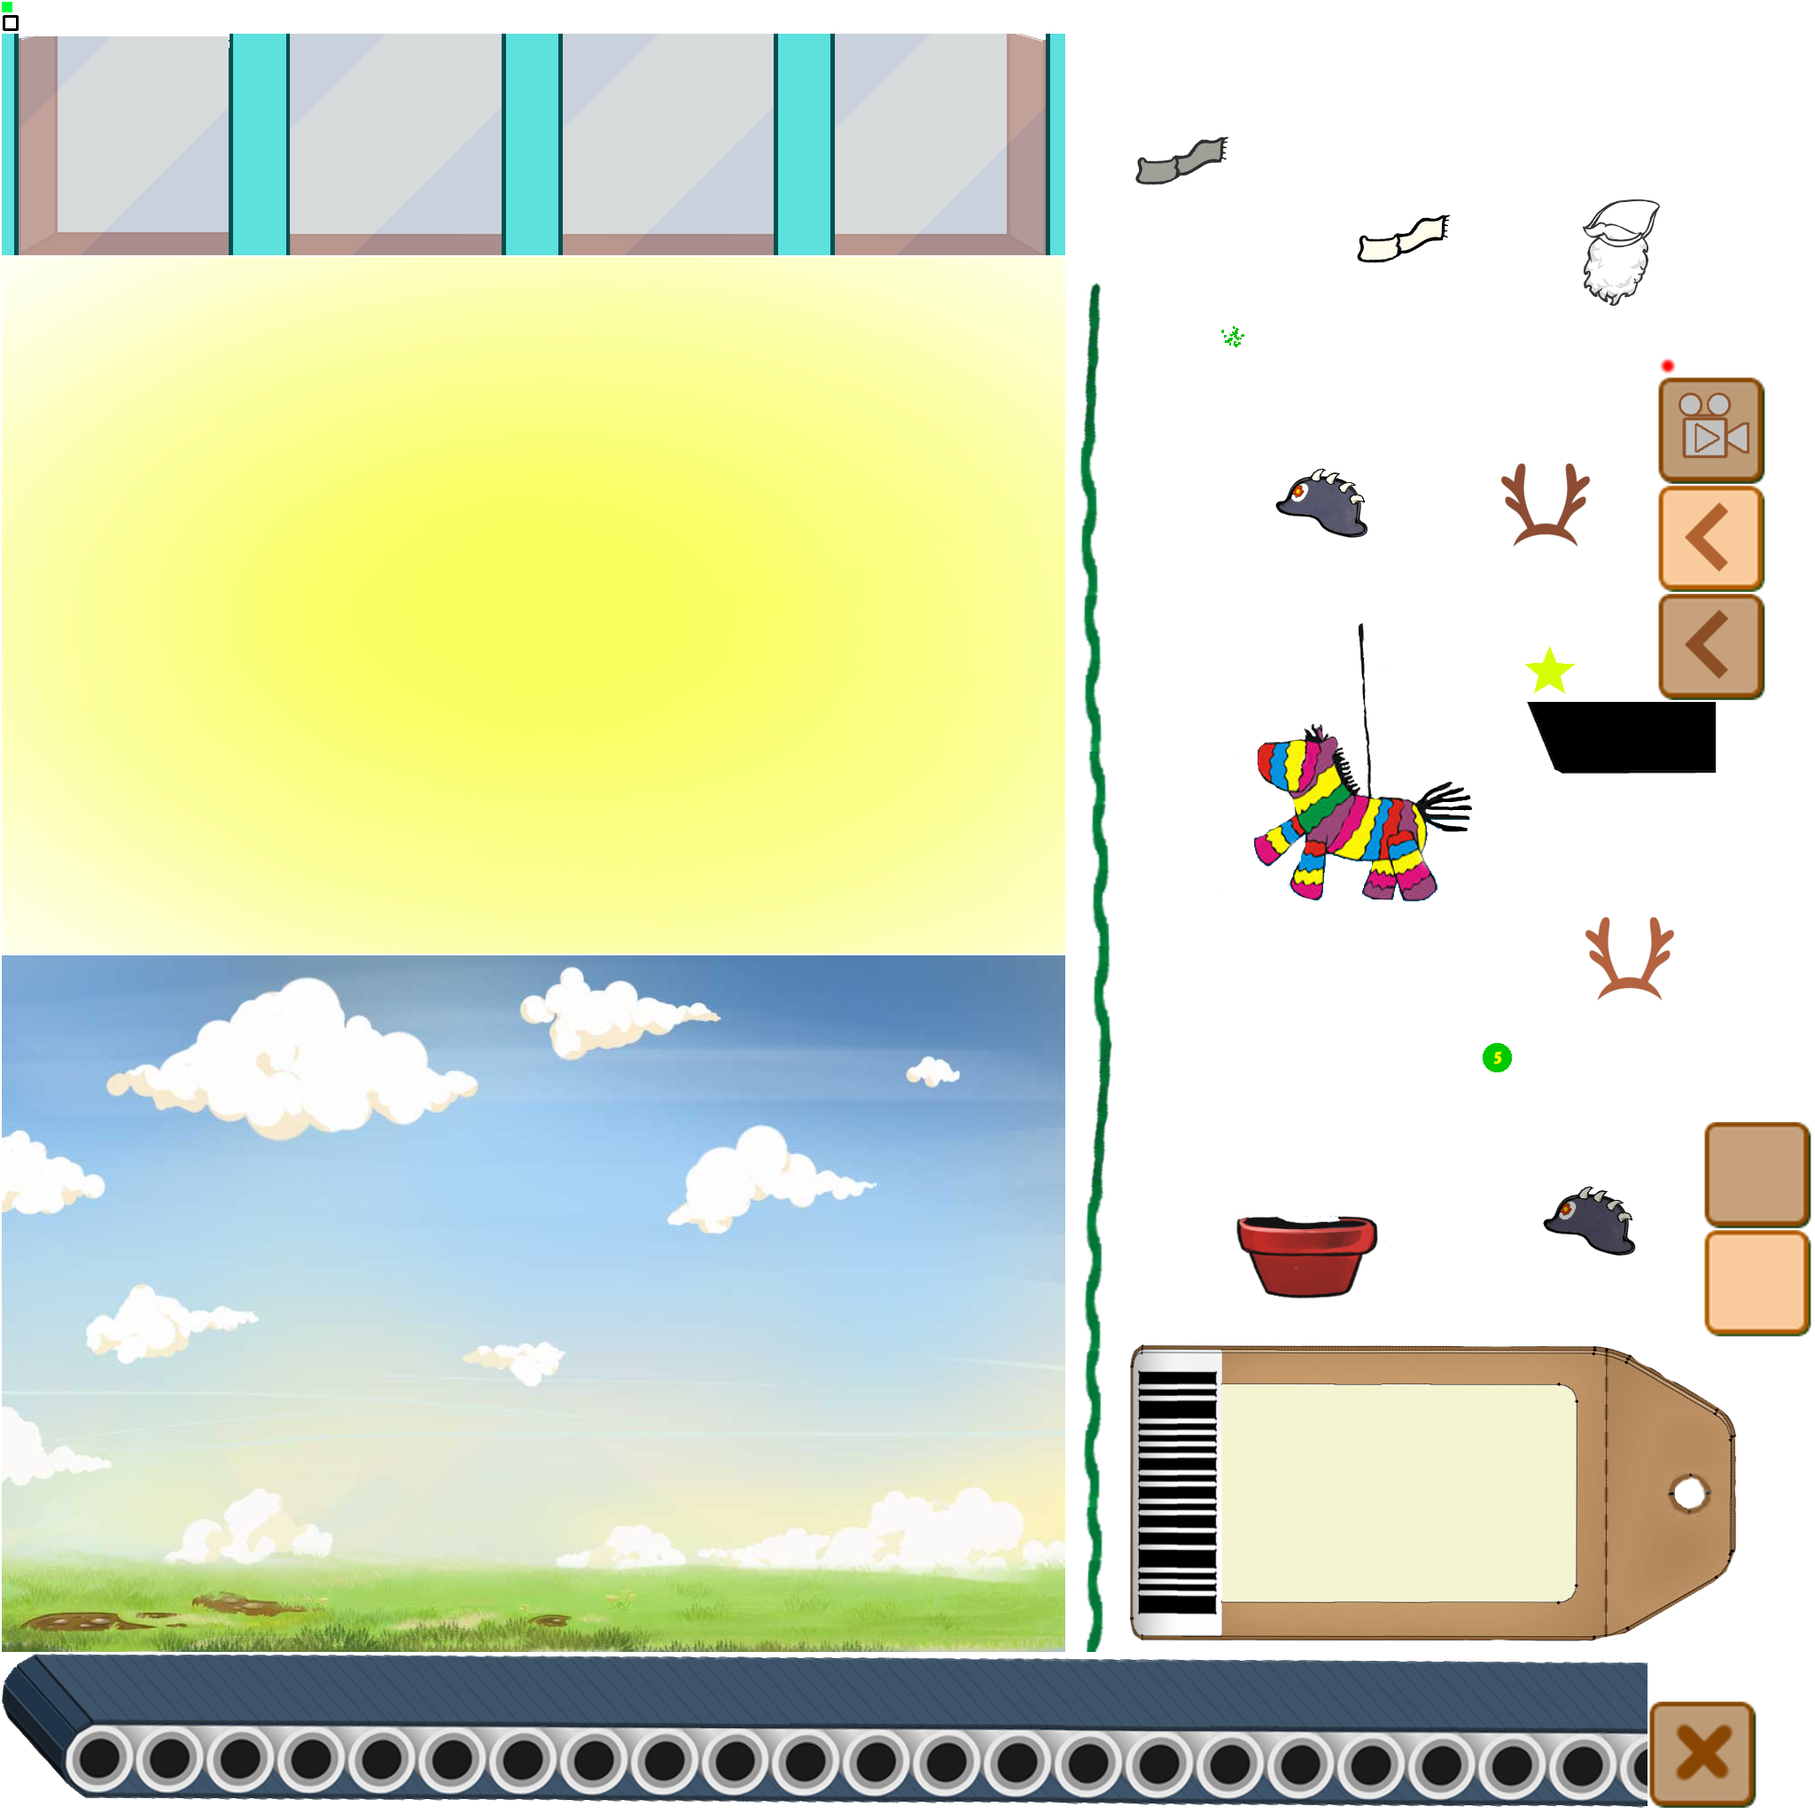
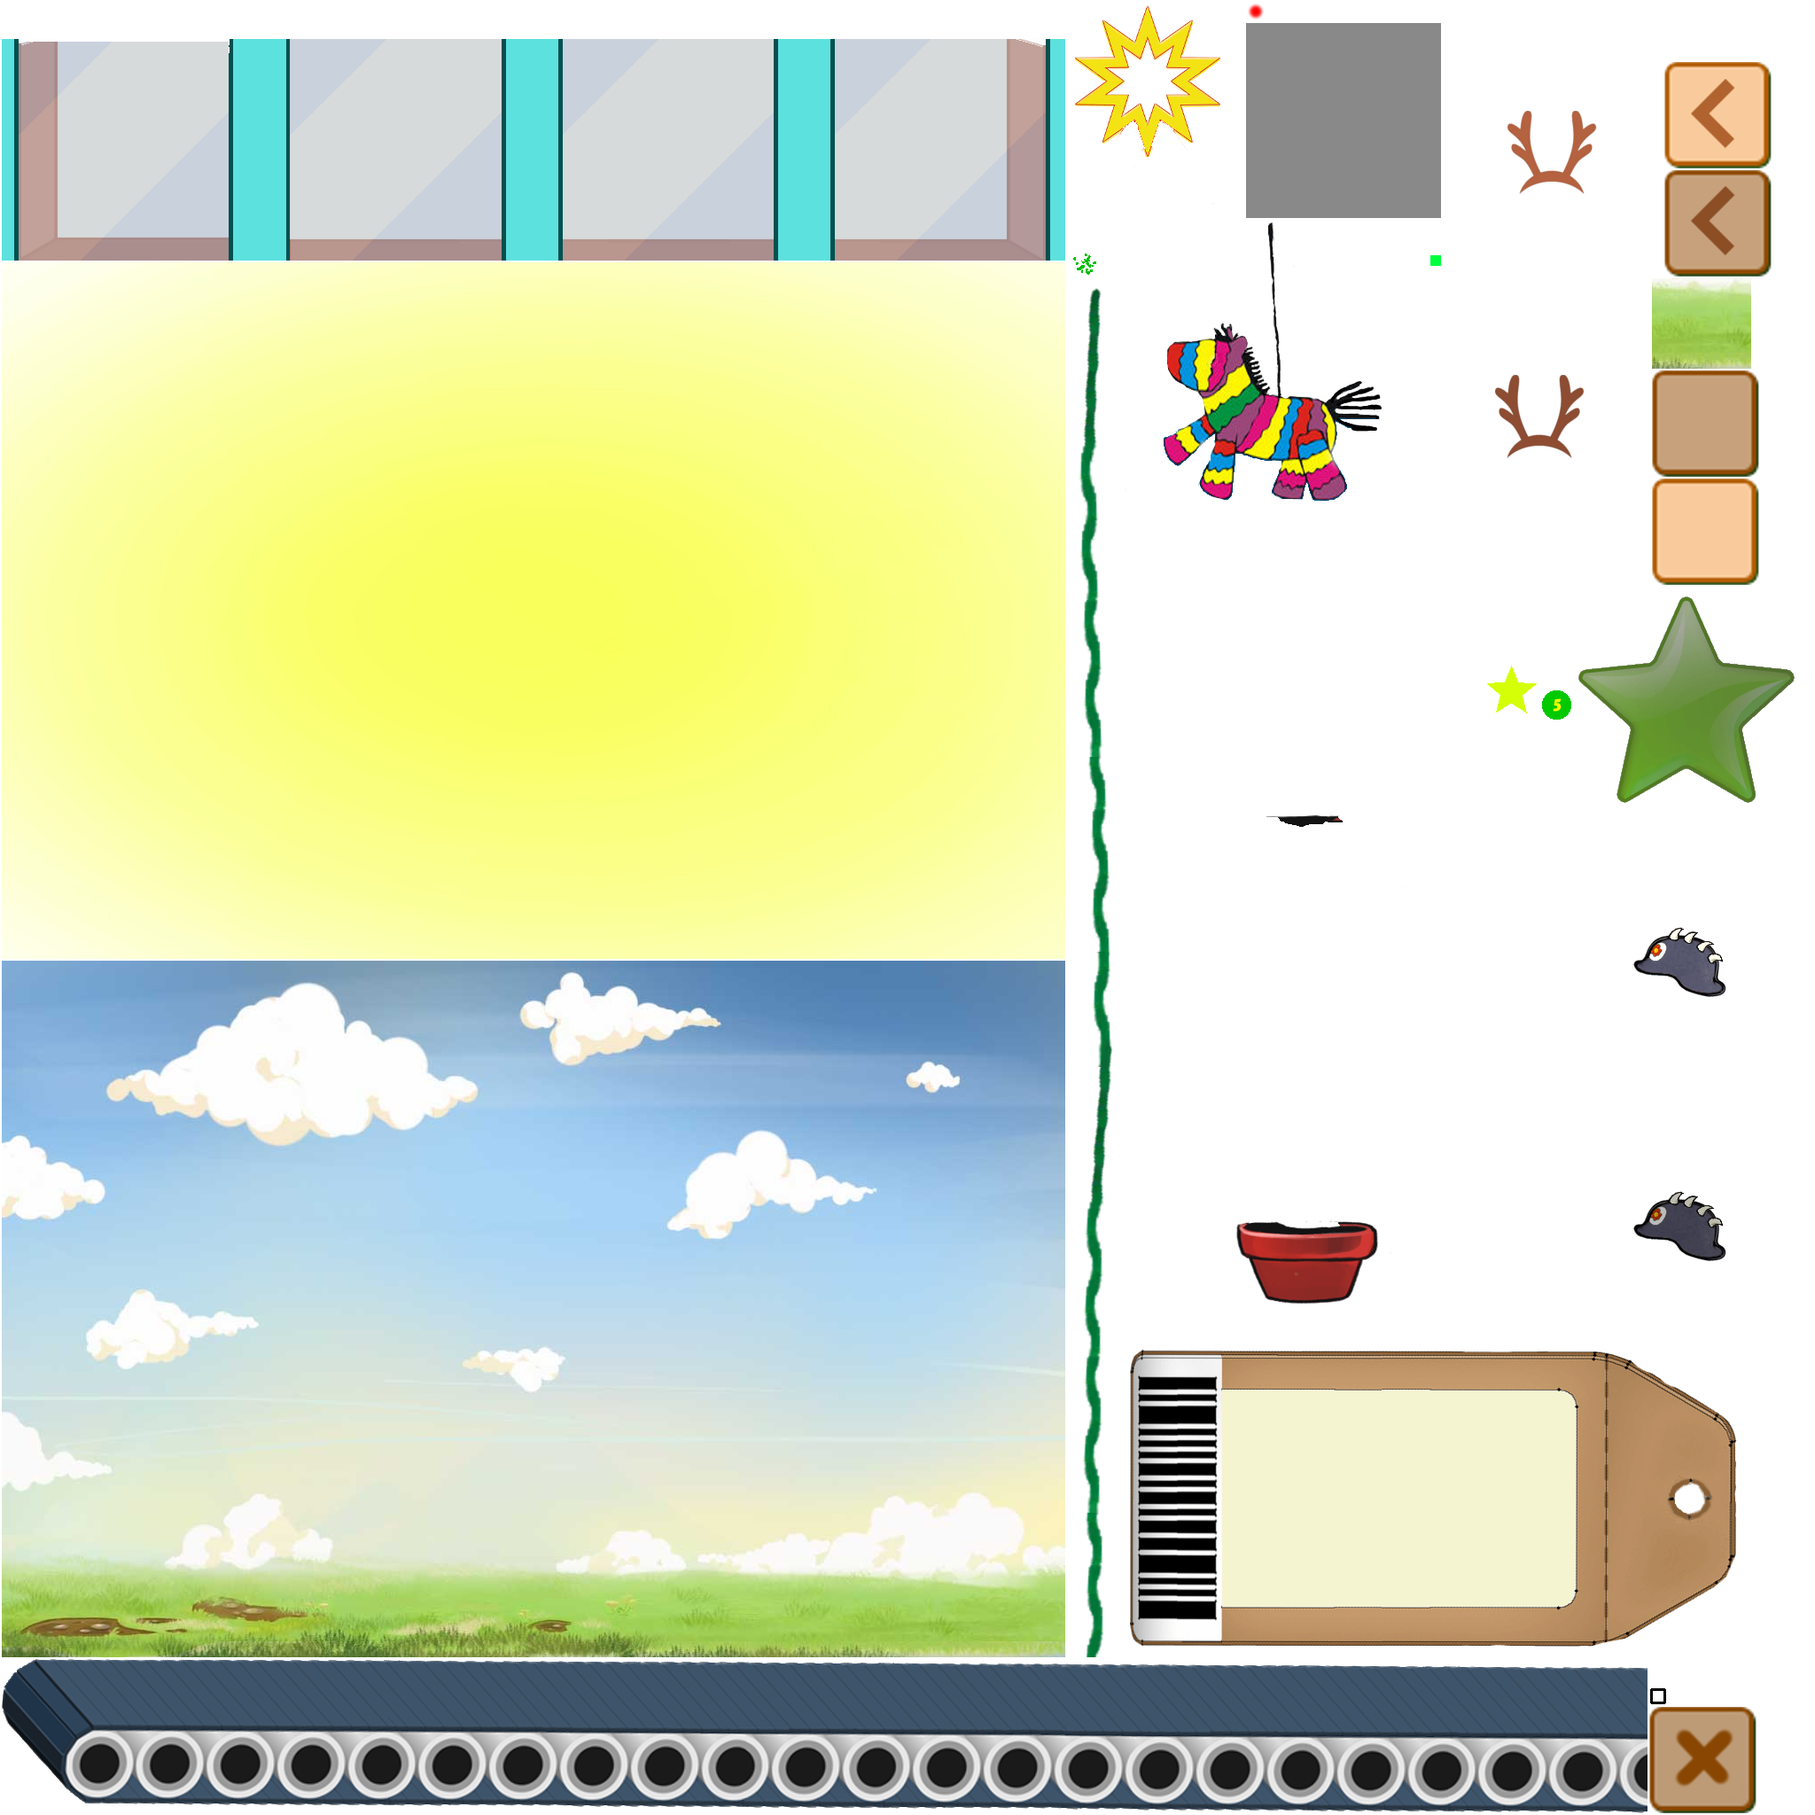
new showcase

diff --git a/core/src/com/mygdx/etf/stages/ui/Showcase.java b/core/src/com/mygdx/etf/stages/ui/Showcase.java
@@ -14,6 +14,8 @@ import com.uwsoft.editor.renderer.systems.action.Actions;
 import com.uwsoft.editor.renderer.utils.ComponentRetriever;
 import com.uwsoft.editor.renderer.utils.ItemWrapper;
 
+import javax.swing.plaf.basic.BasicSliderUI;
+
 import static com.mygdx.etf.stages.GameStage.sceneLoader;
 import static com.mygdx.etf.stages.ResultScreenScript.show;
 import static com.mygdx.etf.stages.ResultScreenScript.showCaseVanity;
@@ -56,30 +58,51 @@ public class Showcase {
 
         NodeComponent nc = showcaseE.getComponent(NodeComponent.class);
         TintComponent tcp = showcaseE.getComponent(TintComponent.class);
-
+        showcaseE.getComponent(TransformComponent.class).scaleX = 0.8f;
+        showcaseE.getComponent(TransformComponent.class).scaleY = 0.8f;
         boolean appear = (tcp.color.a < 1 && show) || (tcp.color.a > 0 && !show);
 
         int fadeCoefficient = show ? 1 : -1;
 
         if (appear) {
-            tcp.color.a += fadeCoefficient * 0.1f;
-            fadeChildren(nc, fadeCoefficient);
-            if (itemIcon != null && fadeCoefficient <0 )
-            fadeChildren(itemIcon.getComponent(NodeComponent.class), fadeCoefficient);
+            ActionComponent ac = new ActionComponent();
+            Actions.checkInit();
+//            if (fadeCoefficient > 0) {
+                ac.dataArray.add(Actions.moveTo(150, 100, 1f, Interpolation.exp10));
+//            } else {
+//                ac.dataArray.add(Actions.moveTo(150, 1300, 1f, Interpolation.exp10));
+//            }
+            showcaseE.add(ac);
+//            tcp.color.a += fadeCoefficient * 0.1f;
+//            fadeChildren(nc, fadeCoefficient);
+//            if (itemIcon != null && fadeCoefficient <0 )
+//            fadeChildren(itemIcon.getComponent(NodeComponent.class), fadeCoefficient);
         }
-        hideWindow(tcp);
+//        hideWindow(tcp);
+//        hideWindow();
 
     }
 
-    private void hideWindow(TintComponent ticParent) {
-        if (!show && ticParent.color.a <= 0 && showcaseE != null) {
+    private void hideWindow(/*TintComponent ticParent*/) {
+        if (/*!show && ticParent.color.a <= 0 && */showcaseE != null) {
             if (itemIcon != null) {
-                tcItem.x = FAR_FAR_AWAY_X;
+//                tcItem.x = FAR_FAR_AWAY_X;
                 sceneLoader.getEngine().removeEntity(itemIcon);
                 itemIcon = null;
-                tcItem = null;
+//                tcItem = null;
             }
-            tcShowCase.x = FAR_FAR_AWAY_X;
+//            tcShowCase.x = FAR_FAR_AWAY_X;
+            showcaseE.remove(ActionComponent.class);
+            ActionComponent ac = new ActionComponent();
+            Actions.checkInit();
+            ac.dataArray.add(Actions.sequence(Actions.moveTo(150, 1300, 1f, Interpolation.exp10),
+                    Actions.run(new Runnable() {
+                        @Override
+                        public void run() {
+                            resultScreen.initResultScreen();
+                        }
+                    })));
+            showcaseE.add(ac);
         }
     }
 
@@ -105,12 +128,12 @@ public class Showcase {
 
         SpriterComponent sc = ComponentRetriever.get(aniE, SpriterComponent.class);
         sc.animationName = INTRO;
-        sc.player.speed = GlobalConstants.FPS/4;
+        sc.player.speed = GlobalConstants.FPS / 4;
 
         initShowCaseItem();
 
-        tcShowCase.x = -25;
-        tcShowCase.y = -35;
+//        tcShowCase.x = -25;
+//        tcShowCase.y = -35;
     }
 
     private void initShowCaseItem() {
@@ -118,21 +141,23 @@ public class Showcase {
         itemIcon = sceneLoader.entityFactory.createEntity(sceneLoader.getRoot(), tempItemC);
         sceneLoader.entityFactory.initAllChildren(sceneLoader.getEngine(), itemIcon, tempItemC.composite);
         sceneLoader.getEngine().addEntity(itemIcon);
+        showcaseE.getComponent(NodeComponent.class).addChild(itemIcon);
+
         itemIcon.getComponent(ZIndexComponent.class).setZIndex(100);
-
-        tcItem = itemIcon.getComponent(TransformComponent.class);
-        tcItem.x = 445;
-        tcItem.y = 350;
-        tcItem.scaleX = 0.05f;
-        tcItem.scaleY = 0.05f;
-        itemIcon.getComponent(TintComponent.class).color.a = 0.0f;
-
-        ActionComponent ac = new ActionComponent();
-        Actions.checkInit();
-        ac.dataArray.add(Actions.parallel(
-                Actions.scaleTo(1.5f, 1.5f, 5, Interpolation.exp5Out),
-                Actions.fadeIn(5, Interpolation.exp10Out)));
-        itemIcon.add(ac);
+//
+//        tcItem = itemIcon.getComponent(TransformComponent.class);
+//        tcItem.x = 145;
+//        tcItem.y = 150;
+//        tcItem.scaleX = 0.05f;
+//        tcItem.scaleY = 0.05f;
+//        itemIcon.getComponent(TintComponent.class).color.a = 0.0f;
+//
+//        ActionComponent ac = new ActionComponent();
+//        Actions.checkInit();
+//        ac.dataArray.add(Actions.parallel(
+//                Actions.scaleTo(1.5f, 1.5f, 5, Interpolation.exp5Out),
+//                Actions.fadeIn(5, Interpolation.exp10Out)));
+//        itemIcon.add(ac);
     }
 
     private void initShowCaseBackButton() {
@@ -154,7 +179,8 @@ public class Showcase {
             @Override
             public void clicked() {
                 ResultScreenScript.isWasShowcase = true;
-                resultScreen.initResultScreen();
+
+                hideWindow();
                 showCaseVanity = null;
             }
         });
@@ -181,7 +207,8 @@ public class Showcase {
                 showCaseVanity.buyAndUse();
                 GameStage.changedFlower2 = true;
                 ResultScreenScript.isWasShowcase = true;
-                resultScreen.initResultScreen();
+//                resultScreen.initResultScreen();
+                hideWindow();
                 if (GameStage.shopScript != null) {
                     GameStage.shopScript.preview.changeBagIcon(showCaseVanity);
                 }

diff --git a/core/src/com/mygdx/etf/stages/ResultScreenScript.java b/core/src/com/mygdx/etf/stages/ResultScreenScript.java
@@ -98,18 +98,24 @@ public class ResultScreenScript implements IScript {
         LabelComponent bestLabel = txtBestE.getComponent(LabelComponent.class);
         bestLabel.text.replace(0, bestLabel.text.capacity(), YOUR_BEST + String.valueOf(gameScript.fpc.bestScore));
 
-        if (showCaseVanity == null && !isWasShowcase) {
-            getNeedForNextItem();
-            isWasShowcase = false;
-        }
-        need = showCaseVanity.cost - gameScript.fpc.totalScore;
-        setProgressBar();
+        if (!isWasShowcase) {
+            if (showCaseVanity == null && !isWasShowcase) {
+                getNeedForNextItem();
+                isWasShowcase = false;
+            }
+            need = showCaseVanity.cost - gameScript.fpc.totalScore;
 
-        LabelComponent needLabel = txtNeedE.getComponent(LabelComponent.class);
-        if (need > 0) {
-            needLabel.text.replace(0, needLabel.text.capacity(), YOU_NEED + String.valueOf(need) + " TO UNLOCK NEXT ITEM");
+
+            setProgressBar();
+
+            LabelComponent needLabel = txtNeedE.getComponent(LabelComponent.class);
+            if (need > 0) {
+                needLabel.text.replace(0, needLabel.text.capacity(), YOU_NEED + String.valueOf(need) + " TO UNLOCK NEXT ITEM");
+            } else {
+                needLabel.text.replace(0, needLabel.text.capacity(), YOU_UNLOCKED_NEXT_ITEM);
+            }
         } else {
-            needLabel.text.replace(0, needLabel.text.capacity(), YOU_UNLOCKED_NEXT_ITEM);
+            txtNeedE.getComponent(LabelComponent.class).text.replace(0,txtNeedE.getComponent(LabelComponent.class).text.capacity(),"" );
         }
     }
 
@@ -223,6 +229,7 @@ public class ResultScreenScript implements IScript {
             progressBarE.getComponent(DimensionsComponent.class).width = MAX_PROGRESS_BAR_WIDTH;
             txtNeedE.getComponent(LabelComponent.class).text.replace(0, txtNeedE.getComponent(LabelComponent.class).text.length, "");
         }
+
         showcase.showFading();
     }
 

diff --git a/core/src/com/mygdx/etf/system/BugSystem.java b/core/src/com/mygdx/etf/system/BugSystem.java
@@ -6,8 +6,6 @@ import com.badlogic.ashley.core.Family;
 import com.badlogic.ashley.systems.IteratingSystem;
 import com.badlogic.gdx.graphics.g2d.Animation;
 import com.mygdx.etf.entity.componets.BugComponent;
-import com.mygdx.etf.entity.componets.FlowerPublicComponent;
-import com.mygdx.etf.entity.componets.Upgrade;
 import com.mygdx.etf.stages.GameStage;
 import com.mygdx.etf.stages.ui.GameOverDialog;
 import com.mygdx.etf.utils.BugPool;
@@ -30,6 +28,8 @@ public class BugSystem extends IteratingSystem {
     public static final String CHARGING_ANI = "CHARGING";
     public static final String IDLE_ANI = "IDLE";
     public static final String PREPARING_ANI = "PREPARING";
+
+    public static boolean blowUpAllBugs;
 
     boolean canPlayAnimation = true;
     private ComponentMapper<BugComponent> mapper = ComponentMapper.getFor(BugComponent.class);
@@ -57,7 +57,7 @@ public class BugSystem extends IteratingSystem {
             transformComponent.scaleY = BUG_SCALE;
             BugComponent bc = mapper.get(entity);
 
-            if (BugSpawnSystem.isBlewUp() || Upgrade.blowUpAllBugs) {
+            if (BugSpawnSystem.isBlewUp() || blowUpAllBugs) {
                 destroyBug(entity, transformComponent);
 
             } else if (bc.state != DEAD) {

diff --git a/core/src/com/mygdx/etf/stages/GameScreenScript.java b/core/src/com/mygdx/etf/stages/GameScreenScript.java
@@ -77,6 +77,7 @@ public class GameScreenScript implements IScript {
         GameScreenScript.cameraShaker.initShaking(7f, 0.9f);
         BugSpawnSystem.queenBeeOnStage = false;
 
+        BugSystem.blowUpAllBugs = true;
         beesModeAni.getComponent(SpriterComponent.class).player.setAnimation(0);
         beesModeAni.getComponent(SpriterComponent.class).player.speed = 26;
         beesModeAni.getComponent(SpriterComponent.class).player.setTime(0);
@@ -91,6 +92,7 @@ public class GameScreenScript implements IScript {
                     beesModeAni.getComponent(SpriterComponent.class).player.getTime()%
                             beesModeAni.getComponent(SpriterComponent.class).player.getAnimation().length == 0) {
                 beesModeAni.getComponent(SpriterComponent.class).player.speed = 0;
+                BugSystem.blowUpAllBugs = false;
             }
             if (angeredBeesModeTimer <= 0) {
                 isAngeredBeesMode = false;

diff --git a/android/src/com/mygdx/etf/android/AndroidLauncher.java b/android/src/com/mygdx/etf/android/AndroidLauncher.java
@@ -166,7 +166,7 @@ public class AndroidLauncher extends AndroidApplication implements AllController
         runOnUiThread(new Runnable() {
             @Override
             public void run() {
-                if (then != null && !gameScript.fpc.settings.noAds) {
+                if (then != null) {
                     interstitialVideoAd.setAdListener(new AdListener() {
                         @Override
                         public void onAdClosed() {
@@ -187,7 +187,7 @@ public class AndroidLauncher extends AndroidApplication implements AllController
         runOnUiThread(new Runnable() {
             @Override
             public void run() {
-                if (then != null && !gameScript.fpc.settings.noAds) {
+                if (then != null) {
                     interstitialVideoAd.setAdListener(new AdListener() {
                         @Override
                         public void onAdClosed() {

diff --git a/core/src/com/mygdx/etf/system/FlowerSystem.java b/core/src/com/mygdx/etf/system/FlowerSystem.java
@@ -1,13 +1,10 @@
 package com.mygdx.etf.system;
 
-import com.badlogic.ashley.core.ComponentMapper;
 import com.badlogic.ashley.core.Entity;
 import com.badlogic.ashley.core.Family;
 import com.badlogic.ashley.systems.IteratingSystem;
 import com.badlogic.gdx.Gdx;
 import com.mygdx.etf.entity.componets.FlowerComponent;
-import com.mygdx.etf.entity.componets.FlowerPublicComponent;
-import com.mygdx.etf.entity.componets.Upgrade;
 import com.mygdx.etf.stages.GameScreenScript;
 import com.mygdx.etf.stages.GameStage;
 import com.mygdx.etf.utils.EffectUtils;
@@ -155,7 +152,7 @@ public class FlowerSystem extends IteratingSystem {
                 if (isAnimationFinished(sc)) {
                     state = IDLE;
                     setIdleAnimation(sc);
-                    Upgrade.blowUpAllBugs = false;
+                    BugSystem.blowUpAllBugs = false;
                 }
             }
         } else {

diff --git a/core/src/com/mygdx/etf/stages/ui/GameOverDialog.java b/core/src/com/mygdx/etf/stages/ui/GameOverDialog.java
@@ -9,6 +9,7 @@ import com.mygdx.etf.entity.componets.Goal;
 import com.mygdx.etf.entity.componets.Upgrade;
 import com.mygdx.etf.stages.GameStage;
 import com.mygdx.etf.system.BugSpawnSystem;
+import com.mygdx.etf.system.BugSystem;
 import com.uwsoft.editor.renderer.components.ActionComponent;
 import com.uwsoft.editor.renderer.components.TintComponent;
 import com.uwsoft.editor.renderer.components.TransformComponent;
@@ -45,7 +46,7 @@ public class GameOverDialog {
     }
 
     public static boolean releaseAllBugs() {
-        return isGameOver && gameOverCounter <= 0 && !Upgrade.blowUpAllBugs;
+        return isGameOver && gameOverCounter <= 0 && !BugSystem.blowUpAllBugs;
     }
 
     public void show() {

diff --git a/core/src/com/mygdx/etf/entity/componets/Upgrade.java b/core/src/com/mygdx/etf/entity/componets/Upgrade.java
@@ -3,6 +3,7 @@ package com.mygdx.etf.entity.componets;
 import com.badlogic.gdx.Gdx;
 import com.mygdx.etf.Main;
 import com.mygdx.etf.stages.GameStage;
+import com.mygdx.etf.system.BugSystem;
 import com.mygdx.etf.utils.SaveMngr;
 
 import java.util.ArrayList;
@@ -10,7 +11,6 @@ import java.util.List;
 
 public class Upgrade extends ShopItem{
 
-    public static boolean blowUpAllBugs;
     public UpgradeType upgradeType;
     public int counter;
 
@@ -92,7 +92,7 @@ public class Upgrade extends ShopItem{
     }
 
     public void usePhoenix() {
-        blowUpAllBugs = true;
+        BugSystem.blowUpAllBugs = true;
         FlowerComponent.state = FlowerComponent.State.PHOENIX;
         counter++;
     }

diff --git a/core/src/com/mygdx/etf/utils/CameraShaker.java b/core/src/com/mygdx/etf/utils/CameraShaker.java
@@ -2,6 +2,7 @@ package com.mygdx.etf.utils;
 
 import com.mygdx.etf.Main;
 import com.mygdx.etf.stages.GameStage;
+import com.mygdx.etf.system.BugSystem;
 import com.uwsoft.editor.renderer.components.LayerMapComponent;
 import com.uwsoft.editor.renderer.utils.ComponentRetriever;
 
